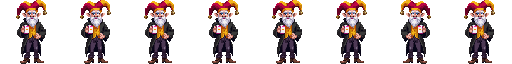
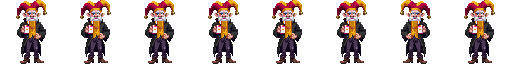
Krandall: shorter beard; after his death the lads blow up Wildern (plant 4 bombs, countdown, demolition cutscene, crater, celebration)
Claude-Session: https://claude.ai/code/session_01VMaYe2CeeKzcmBuCUqa9Rb

diff --git a/src/game/scenes/HubScene.ts b/src/game/scenes/HubScene.ts
@@ -290,7 +290,7 @@ export class HubScene extends Phaser.Scene {
     }
     if (from === "arena" || from === "vignette" || from === "minigame" || from === "dungeon") this.arcPayout();
     G.drongus("hub");
-    if (from === "dungeon") G.emit("toast", { title: "BACK IN KRELFORD", text: "Report to the Town Hall." });
+    if (from === "dungeon") G.emit("toast", { title: "BACK IN KRELFORD", text: s.chapter === 1 && !s.flags.wildern_destroyed ? "Wildern has to go. Plant the bombs (4) around the school." : "Report to the Town Hall." });
     // announce side quests that have just opened up
     for (const c of currentArcSteps(s)) {
       const k = `arc_announced_${c.arc.id}`;
@@ -548,6 +548,168 @@ export class HubScene extends Phaser.Scene {
     }
   }
 
+  // ------------------------------------------------------------- blowing up Wildern
+
+  private bImg: Record<string, Phaser.GameObjects.Image> = {};
+
+  /** Where the four bombs go round Wildern. */
+  private bombSpots(b: Building) {
+    const bottom = b.y + b.h / 2;
+    return [
+      { x: b.x - b.w / 2 - 24, y: bottom - 30 },
+      { x: b.x - b.w / 4, y: bottom + 26 },
+      { x: b.x + b.w / 4, y: bottom + 26 },
+      { x: b.x + b.w / 2 + 24, y: bottom - 30 },
+    ];
+  }
+
+  private drawBomb(x: number, y: number) {
+    const bomb = this.add.text(x, y, "💣", { fontSize: "26px" }).setOrigin(0.5).setDepth(y + 5);
+    const led = this.add.circle(x + 9, y - 12, 3, 0xef4444).setDepth(y + 6);
+    this.tweens.add({ targets: led, alpha: 0.1, yoyo: true, repeat: -1, duration: 260 });
+    this.tweens.add({ targets: bomb, scale: 1.08, yoyo: true, repeat: -1, duration: 520 });
+    return [bomb, led];
+  }
+
+  private setupBombs() {
+    const s = G.s;
+    if (!(s.chapter === 1 && s.flags.ch1_clear && !s.flags.wildern_destroyed)) return;
+    const b = BUILDINGS.find((x) => x.id === "WILDERN")!;
+    this.bombSpots(b).forEach((sp, i) => {
+      const k = `wildern_bomb_${i}`;
+      if (s.flags[k]) {
+        this.drawBomb(sp.x, sp.y);
+        return;
+      }
+      const ring = this.add.circle(sp.x, sp.y, 20, 0xef4444, 0.18).setStrokeStyle(2, 0xef4444, 0.9).setDepth(sp.y);
+      const mark = this.add.text(sp.x, sp.y - 30, "BOMB HERE", { fontFamily: FONT, fontSize: "10px", color: "#ffffff", backgroundColor: "#b91c1ccc", padding: { x: 4, y: 1 } }).setOrigin(0.5).setDepth(5000);
+      this.tweens.add({ targets: ring, scale: 1.3, alpha: 0.4, yoyo: true, repeat: -1, duration: 500 });
+      const it = {
+        x: sp.x,
+        y: sp.y,
+        r: 50,
+        label: () => (s.flags[k] ? "" : `Plant a bomb (${this.bombsPlanted() + 1}/4)`),
+        use: () => {
+          if (s.flags[k] || this.busy) return;
+          s.flags[k] = true;
+          ring.destroy();
+          mark.destroy();
+          this.drawBomb(sp.x, sp.y);
+          synth.play("select");
+          const n = this.bombsPlanted();
+          this.interactables = this.interactables.filter((x) => x !== it);
+          G.save();
+          if (n >= 4) void this.blowWildern();
+          else G.emit("toast", { title: `BOMB ${n}/4 PLANTED`, text: n === 3 ? "One more. Then run." : "Keep going. Round the school." });
+        },
+      };
+      this.interactables.push(it);
+    });
+  }
+
+  private bombsPlanted() {
+    return [0, 1, 2, 3].filter((i) => G.s.flags[`wildern_bomb_${i}`]).length;
+  }
+
+  /** The big one: four bombs, a countdown, and Wildern Academy goes up. */
+  private async blowWildern() {
+    const s = G.s;
+    const b = BUILDINGS.find((x) => x.id === "WILDERN")!;
+    const cam = this.cameras.main;
+    this.busy = true;
+    (this.av.body as Phaser.Physics.Arcade.Body).setVelocity(0, 0);
+    await this.talk([say("MIKEY", "That's all four. Everybody back. BACK. Further than that."), dir("You all retreat behind a bin. Mikey holds up a detonator made out of a Nintendo Wii remote.")]);
+    this.busy = true;
+    synth.stopMusic();
+    cam.stopFollow();
+    cam.pan(b.x, b.y + 20, 1200, Phaser.Math.Easing.Sine.InOut);
+    await new Promise((r) => this.time.delayedCall(1300, r));
+    // countdown
+    for (const n of ["3", "2", "1"]) {
+      const t = this.add.text(480, 230, n, { fontFamily: "Impact, sans-serif", fontSize: "120px", color: "#ef4444", stroke: "#000", strokeThickness: 12 }).setOrigin(0.5).setScrollFactor(0).setDepth(6000).setScale(2).setAlpha(0);
+      this.tweens.add({ targets: t, scale: 1, alpha: 1, duration: 250, ease: "Back.out" });
+      this.tweens.add({ targets: t, alpha: 0, delay: 650, duration: 200, onComplete: () => t.destroy() });
+      synth.play("select");
+      await new Promise((r) => this.time.delayedCall(900, r));
+    }
+    // the blast: a chain of explosions round the building, then one enormous one
+    const boom = (x: number, y: number, big: boolean) => {
+      synth.play("boom");
+      cam.shake(big ? 900 : 300, big ? 0.03 : 0.012);
+      const f = this.add.circle(x, y, big ? 40 : 16, 0xfff1a8, 1).setDepth(4300).setBlendMode(Phaser.BlendModes.ADD);
+      this.tweens.add({ targets: f, radius: big ? 260 : 80, alpha: 0, duration: big ? 900 : 450, onComplete: () => f.destroy() });
+      const o = this.add.circle(x, y, big ? 30 : 12, 0xf97316, 0.9).setDepth(4301);
+      this.tweens.add({ targets: o, radius: big ? 180 : 55, alpha: 0, duration: big ? 1100 : 550, onComplete: () => o.destroy() });
+      for (let i = 0; i < (big ? 40 : 10); i++) {
+        const a = Math.random() * Math.PI * 2;
+        const d = (big ? 120 : 50) + Math.random() * (big ? 260 : 90);
+        const chunk = this.add.rectangle(x, y, 6 + Math.random() * 8, 5 + Math.random() * 6, Math.random() < 0.6 ? 0x9a3412 : 0x44403c).setDepth(4302);
+        this.tweens.add({ targets: chunk, x: x + Math.cos(a) * d, y: y + Math.sin(a) * d - 60, angle: 720, duration: 700 + Math.random() * 500, ease: "Quad.out", onComplete: () => { this.tweens.add({ targets: chunk, alpha: 0, y: chunk.y + 40, duration: 500, onComplete: () => chunk.destroy() }); } });
+      }
+      for (let i = 0; i < (big ? 16 : 4); i++) {
+        const sm = this.add.circle(x + (Math.random() - 0.5) * (big ? 200 : 60), y + (Math.random() - 0.5) * 60, 14 + Math.random() * 16, 0x3f3f46, 0.8).setDepth(4299);
+        this.tweens.add({ targets: sm, y: sm.y - 160 - Math.random() * 160, radius: 50 + Math.random() * 40, alpha: 0, duration: 2200 + Math.random() * 1500, onComplete: () => sm.destroy() });
+      }
+    };
+    const spots = this.bombSpots(b);
+    for (let i = 0; i < spots.length; i++) {
+      boom(spots[i].x, spots[i].y, false);
+      await new Promise((r) => this.time.delayedCall(260, r));
+    }
+    for (let i = 0; i < 6; i++) {
+      boom(b.x + (Math.random() - 0.5) * b.w * 0.8, b.y + (Math.random() - 0.5) * b.h * 0.6, false);
+      await new Promise((r) => this.time.delayedCall(170, r));
+    }
+    cam.flash(700, 255, 240, 200);
+    boom(b.x, b.y, true);
+    // the school is gone
+    s.flags.wildern_destroyed = true;
+    const img = this.bImg.WILDERN;
+    if (img && this.textures.exists("bld_WILDERN_RUIN")) {
+      const bottom = b.y + b.h / 2;
+      const src = this.textures.get("bld_WILDERN_RUIN").getSourceImage();
+      img.setTexture("bld_WILDERN_RUIN").setPosition(b.x, bottom - src.height / 2);
+      this.smoulder({ ...b, y: bottom - src.height / 2, w: src.width, h: src.height });
+    } else img?.setTint(0x3f3f46);
+    await new Promise((r) => this.time.delayedCall(1600, r));
+    const title = this.add.text(480, 190, "WILDERN ACADEMY", { fontFamily: "Impact, sans-serif", fontSize: "54px", color: "#ffffff", stroke: "#000", strokeThickness: 10 }).setOrigin(0.5).setScrollFactor(0).setDepth(6000).setAlpha(0);
+    const sub = this.add.text(480, 246, "DEMOLISHED", { fontFamily: "Impact, sans-serif", fontSize: "60px", color: "#ef4444", stroke: "#000", strokeThickness: 10 }).setOrigin(0.5).setScrollFactor(0).setDepth(6000).setScale(3).setAlpha(0);
+    this.tweens.add({ targets: title, alpha: 1, duration: 400 });
+    this.tweens.add({ targets: sub, alpha: 1, scale: 1, delay: 500, duration: 350, ease: "Back.out", onComplete: () => cam.shake(250, 0.01) });
+    // celebration: the Krelworld song, fireworks over the crater
+    this.time.delayedCall(900, () => synth.music("crazy", true));
+    const fw = this.time.addEvent({ delay: 380, repeat: 30, callback: () => {
+      const fx = cam.worldView.x + 80 + Math.random() * 800;
+      const fy = cam.worldView.y + 60 + Math.random() * 200;
+      const col = [0xf472b6, 0xfde047, 0x67e8f9, 0x86efac, 0xc084fc][Math.floor(Math.random() * 5)];
+      for (let i = 0; i < 14; i++) {
+        const a = (i / 14) * Math.PI * 2;
+        const p = this.add.circle(fx, fy, 3, col).setDepth(5500).setBlendMode(Phaser.BlendModes.ADD);
+        this.tweens.add({ targets: p, x: fx + Math.cos(a) * 80, y: fy + Math.sin(a) * 80 + 20, alpha: 0, duration: 800, onComplete: () => p.destroy() });
+      }
+    } });
+    await new Promise((r) => this.time.delayedCall(2600, r));
+    this.tweens.add({ targets: [title, sub], alpha: 0, duration: 500, onComplete: () => { title.destroy(); sub.destroy(); } });
+    await this.talk([
+      dir("When the dust settles, Wildern Academy is a smoking hole in the ground. Somewhere in the crater, a single jester-hat bell tinkles once, and is silent."),
+      say("MIKEY", "YOU'VE DONE IT!!"),
+      say("FLENKY", "You saved the kids from that fucking sicko!"),
+      say("GRONNY", "Kids safe. School gone. Me never liked school anyway."),
+      say("CRONGUS", "As Children's Minister: you saved the kids from that fucking sicko. Lessons will now take place online. With a normal teacher. I'm vetting them personally. No hats."),
+      say("KREZWONK", "I foresaw an explosion. I did not foresee how good it would feel."),
+      say("KREZMAR", "Somebody's going to have to pay for that. Not me. Put it on Drongus's tab."),
+      say("SCROMBUS", "Right. The Tap's flowing, the sicko's dead and his school's a crater. Town Hall. We've got a country to run."),
+    ]);
+    fw.remove();
+    cam.pan(this.av.x, this.av.y, 900, Phaser.Math.Easing.Sine.InOut);
+    await new Promise((r) => this.time.delayedCall(950, r));
+    cam.startFollow(this.av, true, 0.12, 0.12);
+    synth.music("hub");
+    this.busy = false;
+    G.emit("toast", { title: "WILDERN: GONE", text: "Report back to the Town Hall." });
+    G.save();
+  }
+
   // ------------------------------------------------------------- Da Drongus Dungeon
 
   /** A storm over the top of town: dark cloud, purple glow, the odd fork of lightning. */
@@ -692,6 +854,7 @@ export class HubScene extends Phaser.Scene {
   /** Which picture a building uses (the Crobley factory burns down). */
   private buildingKey(b: Building) {
     if (b.id === "CROBLEY_FACTORY" && G.s.flags.crobley_factory_destroyed && this.textures.exists("bld_CROBLEY_FACTORY_RUIN")) return "bld_CROBLEY_FACTORY_RUIN";
+    if (b.id === "WILDERN" && G.s.flags.wildern_destroyed && this.textures.exists("bld_WILDERN_RUIN")) return "bld_WILDERN_RUIN";
     return `bld_${b.id}`;
   }
 
@@ -743,13 +906,15 @@ export class HubScene extends Phaser.Scene {
       if (b.id === "TOWN_HALL" && G.s.chapter === 1 && !G.s.flags.ch1_clear) name = "KRELFORD ____ HALL";
       if (b.id === "HOME") name = `${CHARACTERS[G.s.player].name}'S HOUSE`;
       if (b.id === "CROBLEY_FACTORY" && G.s.flags.crobley_factory_destroyed) name = "CROBLEY CORP HQ (SMOULDERING WRECK)";
+      if (b.id === "WILDERN" && G.s.flags.wildern_destroyed) name = "WHERE WILDERN USED TO BE (SMOULDERING CRATER)";
+      this.bImg[b.id] = img;
       this.add
         .text(b.x, b.y + b.h / 2 + 6, name, { fontFamily: FONT, fontSize: "11px", color: "#fff4cc", backgroundColor: "#1a1033cc", padding: { x: 5, y: 2 }, align: "center", wordWrap: { width: Math.max(160, b.w) } })
         .setOrigin(0.5, 0)
         .setDepth(b.y + b.h / 2 + 1);
       // the walkable line is the front wall: everything above it is roof and facade
       this.colliders.add(this.add.rectangle(b.x, b.y + b.h * 0.12, b.w * 0.86, b.h * 0.7, 0, 0));
-      if (key === "bld_CROBLEY_FACTORY_RUIN") this.smoulder(b);
+      if (key === "bld_CROBLEY_FACTORY_RUIN" || key === "bld_WILDERN_RUIN") this.smoulder(b);
       else if (b.id === "CITADEL") this.towerFx(b, img);
       else this.neonGlow(b.x, b.y - b.h * 0.25, Math.max(60, b.w * 0.45));
       void img;
@@ -1089,6 +1254,7 @@ export class HubScene extends Phaser.Scene {
       if (!b.door || (b.id === "CITADEL" && !this.towerUp())) continue;
       this.interactables.push({ x: b.door.x, y: b.door.y + 10, r: 46, label: () => this.doorLabel(b), use: () => this.enterBuilding(b) });
     }
+    this.setupBombs();
     for (const gt of GATES) {
       this.interactables.push({ x: gt.x, y: gt.y, r: 60, label: () => this.doorLabel({ id: gt.id, name: gt.name } as Building), use: () => this.enterBuilding({ id: gt.id, name: gt.name } as Building) });
     }
@@ -1478,6 +1644,8 @@ You are required by law to sign the Sex Offenders Register.`, {
     const ch = chapterDef(s.chapter);
     const arc = arcStepAt(s, b.id);
     if (arc && !this.buildingBusy(b.id)) return `${b.name}: ★ ${arc.step.text}`;
+    if (b.id === "WILDERN" && s.flags.wildern_destroyed) return "The smouldering crater where Wildern used to be";
+    if (b.id === "WILDERN" && s.chapter === 1 && s.flags.ch1_clear) return "Wildern Academy: plant the bombs around it";
     if (b.id === ch.dungeonDoor) {
       const o = dungeonOpen();
       return o.open ? `Enter: ${b.name}` : `${b.name} (locked: ${o.why})`;
@@ -1534,6 +1702,10 @@ You are required by law to sign the Sex Offenders Register.`, {
   private async enterBuilding(b: Building) {
     const s = G.s;
     const ch = chapterDef(s.chapter);
+    if (b.id === "WILDERN" && (s.flags.wildern_destroyed || (s.chapter === 1 && s.flags.ch1_clear))) {
+      await this.talk([dir(s.flags.wildern_destroyed ? "A smoking crater. Bits of desk. A gold star, fluttering. Somewhere underneath it all, a bell tinkles." : "The doors are chained shut. Mikey's bombs need planting round the outside: look for the red circles.")]);
+      return;
+    }
     synth.play("door");
     if (!(b.id === ch.dungeonDoor && !dungeonOpen().open)) this.discover(b.id, b.name);
     // a side-quest step waiting at the dungeon building goes first

diff --git a/src/content/bosses.ts b/src/content/bosses.ts
@@ -36,6 +36,14 @@ export const BOSS_TEXT: Record<string, BossText> = {
       dir("In a drawer of the desk: forty-one marked spelling tests. Every answer is 'pussy juice'. Every one has a gold star."),
       say("CRONGUS", "As Children's Minister I'm putting all of these in the bin. And then the bin in a bigger bin."),
       say("SCROMBUS", "Wildern's getting a new headmaster. A normal one. With a normal hat. Or no hat."),
+      dir("Everyone looks round the office. The jester posters. The gold stars. The faint, sweet smell coming out of the radiators."),
+      say("SCROMBUS", "No. Krandall may be dead, but his vibes linger. In every crevice. Of every corridor. Of Wildern."),
+      say("SCROMBUS", "The only way to protect the children is to remove every last trace of this sick fuck."),
+      say("KREZMAR", "Meaning?"),
+      say("SCROMBUS", "The school needs to be destroyed. Via bombs."),
+      say("MIKEY", "Mikey here. I've got bombs. Don't ask why I've got bombs."),
+      say("CRONGUS", "Every kid's out on an emergency field trip to the Great Tap. I've counted them. Twice. Building's empty."),
+      dir("NEW OBJECTIVE: Plant 4 bombs around Wildern Academy. Then stand well back.", { set: { wildern_bombs: true } }),
     ],
     taunts: ["ZANY!", "KRAZY!", "PENS DOWN!", "MMMM, PUSSY JUICY!", "DETENTION!", "SPELL IT!", "JUST A LITTLE SIPPY!", "NO TALKING IN MY OFFICE!", "HAT STAYS ON!", "DRONGUS SAYS HELLO!"],
   },

diff --git a/src/content/chapters/chapters.ts b/src/content/chapters/chapters.ts
@@ -36,6 +36,7 @@ export const CHAPTERS: ChapterDef[] = [
       { id: "s_meeting", text: "Attend the Emergency Reaction Session at the Town Hall", done: { flag: "met_emergency" }, target: "TOWN_HALL" },
       { id: "s_archive", text: "Visit the Historical Archive (the cabinet wants precedent)", done: { flag: "founding_seen" }, target: "ARCHIVE" },
       { id: "s_dungeon", text: "Enter Wildern Academy. Find Kranky Krandall, the zany new headmaster, and turn the Tap back on", done: { flag: "ch1_clear" }, target: "WILDERN" },
+      { id: "s_bomb", text: "Wildern has to go. Plant 4 bombs around Wildern Academy and blow it up", done: { flag: "wildern_destroyed" }, target: "WILDERN" },
       { id: "s_report", text: "Report back to the Town Hall", done: { flag: "ch1_fact" }, target: "TOWN_HALL" },
     ],
     intro: [

diff --git a/src/content/meetings/chapterOneMeetings.ts b/src/content/meetings/chapterOneMeetings.ts
@@ -244,6 +244,7 @@ export const KRAZY_FACT_EMERGENCY: MeetingScript = {
     "4. It will become law",
   ],
   beats: [
+    dir("Out of the window, where Wildern Academy used to be, there is a smoking crater. A jester hat bell tinkles somewhere in it. Lessons have moved online."),
     dir("The Great Tap is flowing. Pink-ish. Warm-ish. Through the window, citizens queue with buckets. Someone is drinking straight from the spout with their eyes closed."),
     say("SCROMBUS", "Order. The Tap is restored. Pussy juice pressure is at sixty percent and climbing. A round of applause for the hero of Wildern.", { role: true, proctus: "The Tap is back! Round of applause! I'll start. *claps once, alone, for too long*" }),
     dir("Applause. Some of it sticky."),

diff --git a/src/game/Flow.ts b/src/game/Flow.ts
@@ -105,7 +105,7 @@ export function townHallAction(): TownHallAction {
   const n = s.chapter;
   if (n === 1) {
     if (!f.met_emergency) return { kind: "meeting", id: "emergency_reaction_session" };
-    if (f.ch1_clear && !f.ch1_fact) return f.krazy_fact_ready ? { kind: "fact" } : { kind: "meeting", id: "krazy_fact_emergency" };
+    if (f.ch1_clear && f.wildern_destroyed && !f.ch1_fact) return f.krazy_fact_ready ? { kind: "fact" } : { kind: "meeting", id: "krazy_fact_emergency" };
   }
   if (n === 3) {
     if (!f.beverage_committee) return { kind: "meeting", id: "national_beverage_committee" };
